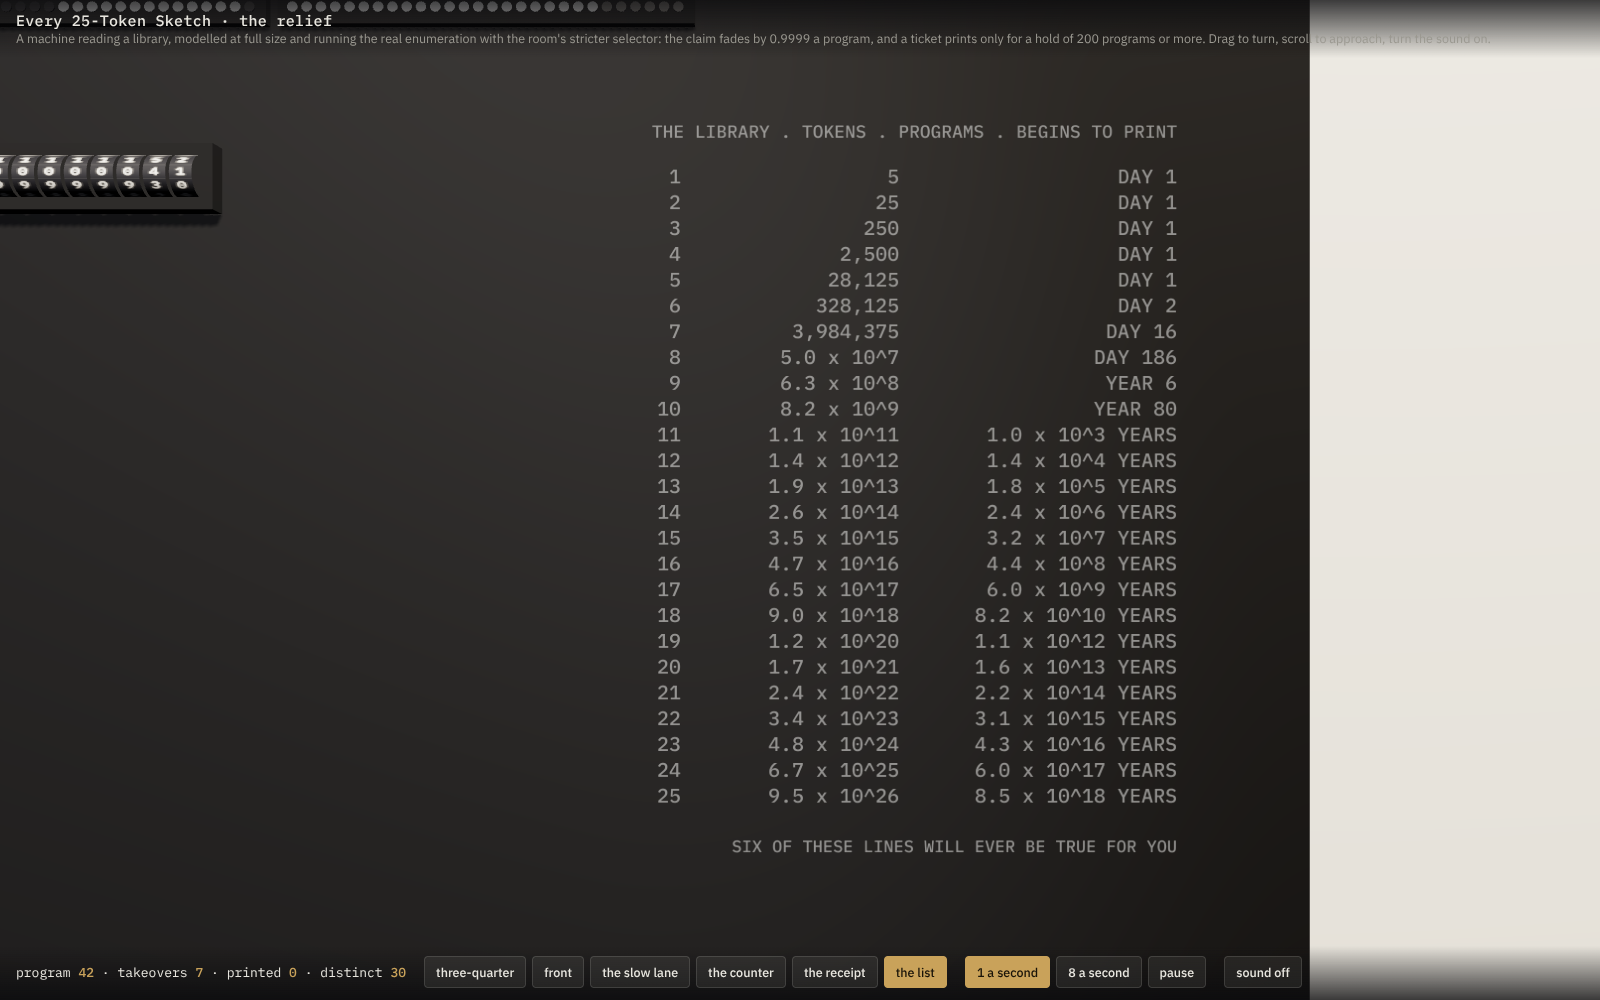
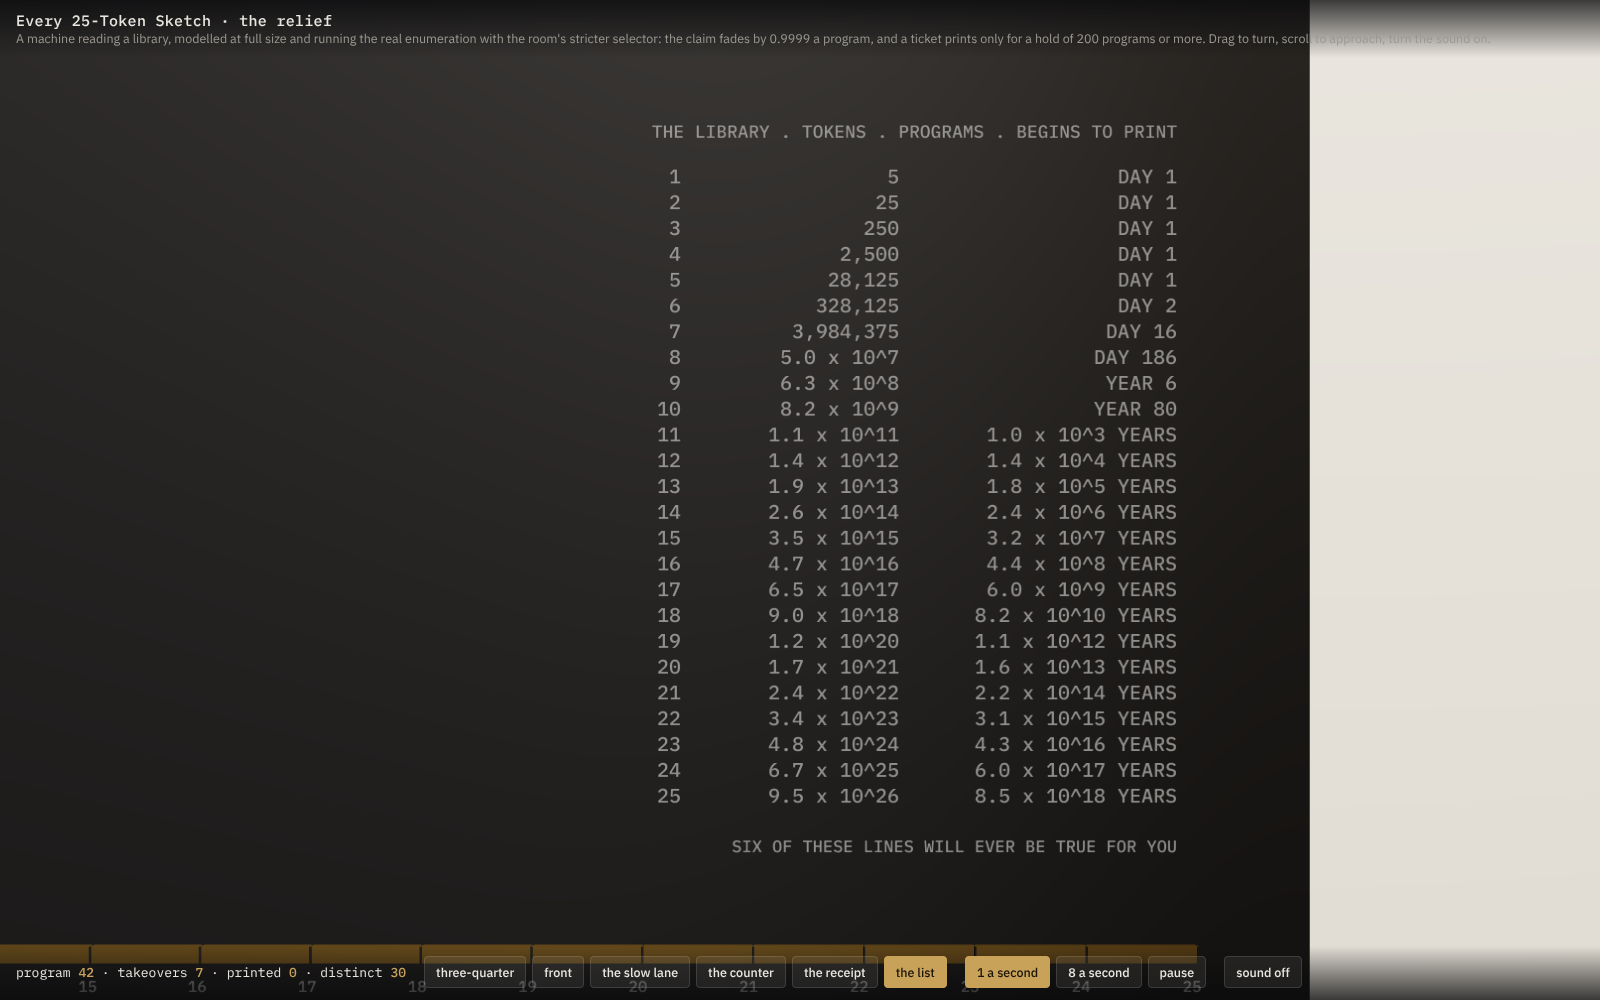
045: the engraved list sits just above the ruler
Claude-Session: https://claude.ai/code/session_01FhnofTHF49yv2QouZWRnps

diff --git a/projects/045-every-25-token-sketch/relief/model.html b/projects/045-every-25-token-sketch/relief/model.html
@@ -530,7 +530,7 @@ const controls = new OrbitControls(camera, canvas); controls.enableDamping = tru
 // world space: the panel face spans x −1 … 1, y 0.9 … 2.4; the lane centre is (−0.64, 1.70), the counter (0, 1.925), the shelves (1.4, 0.75)
 const VIEWS = [
   { p: [2.9, 1.9, 4.2], t: [0.55, 1.45, 0] }, { p: [0.5, 1.65, 4.6], t: [0.5, 1.55, 0] },
-  { p: [-0.5, 1.78, 1.25], t: [-0.64, 1.70, 0.08] }, { p: [0.12, 1.98, 0.78], t: [0.0, 1.92, 0.08] }, { p: [-0.22, 2.06, 0.42], t: [-0.22, 1.79, 0.12] }, { p: [0.64, 1.70, 1.0], t: [0.64, 1.70, 0.08] },
+  { p: [-0.5, 1.78, 1.25], t: [-0.64, 1.70, 0.08] }, { p: [0.12, 1.98, 0.78], t: [0.0, 1.92, 0.08] }, { p: [-0.22, 2.06, 0.42], t: [-0.22, 1.79, 0.12] }, { p: [0.64, 1.34, 1.0], t: [0.64, 1.34, 0.08] },
 ];
 let viewFrom = null, viewTo = null, viewT = 1;
 function goView(i) { viewFrom = { p: camera.position.clone(), t: controls.target.clone() }; viewTo = { p: new THREE.Vector3(...VIEWS[i].p), t: new THREE.Vector3(...VIEWS[i].t) }; viewT = 0; for (let j = 0; j < 6; j++) document.getElementById('v' + j).setAttribute('aria-pressed', String(j === i)); }
@@ -679,7 +679,7 @@ function animateTickets(now) {                                       // hang fro
   g.font = '500 34px "IBM Plex Mono", ui-monospace, Menlo, monospace'; g.fillText('SIX OF THESE LINES WILL EVER BE TRUE FOR YOU', 1560, 1500);
   const tex = new THREE.CanvasTexture(c); tex.colorSpace = THREE.SRGBColorSpace; tex.anisotropy = 8;
   const listMesh = new THREE.Mesh(new THREE.PlaneGeometry(0.56, 0.56), new THREE.MeshBasicMaterial({ map: tex, transparent: true, depthWrite: false }));
-  const pp = mm(1360 + 280, 420 + 280, 0.0012); listMesh.position.set(pp.x, pp.y, pp.z); scene.add(listMesh);
+  const pp = mm(1360 + 280, 780 + 280, 0.0012); listMesh.position.set(pp.x, pp.y, pp.z); scene.add(listMesh);   // the block's foot 34 mm above the ruler
 }
 // the ruler: brass, engraved, a pointer on a lead screw
 box(80, 1374, 1840, 12, 0.006, brass, 0.001);

diff --git a/projects/045-every-25-token-sketch/relief/simulator.html b/projects/045-every-25-token-sketch/relief/simulator.html
@@ -109,7 +109,7 @@
     ctx.fillStyle = '#2a2a30'; ctx.fillRect(sx - 10, sy + 38, 140, 6);                      // the shelf under the slot, seen edge-on
     if (found.length) { ctx.fillStyle = 'rgba(232,230,223,0.9)'; ctx.fillRect(sx + 8, sy + 34, 104, 4); }
     // the plate: the library's 25 lengths, their counts, when each begins to print
-    const px0 = 1360, py0 = 420, pw = 560, ph = 560;                    // the list, engraved in the face, aligned right in the lower right field
+    const px0 = 1360, py0 = 780, pw = 560, ph = 560;                    // the list, engraved in the face, aligned right in the lower right field
     engrave('THE LIBRARY . TOKENS . PROGRAMS . BEGINS TO PRINT', px0 + pw, py0 + 24, 13, 'right');
     PLATE.forEach(([n, c, b], i) => { const y = py0 + 56 + i * 18.4; engrave(String(n), px0 + 200, y, 14, 'right'); engrave(c, px0 + 350, y, 14, 'right'); engrave(b, px0 + pw, y, 14, 'right'); });
     engrave('SIX OF THESE LINES WILL EVER BE TRUE FOR YOU', px0 + pw, py0 + ph - 24, 13, 'right');

diff --git a/tools/relief-elevation.py b/tools/relief-elevation.py
@@ -31,11 +31,11 @@ T(712,528,'THE PROGRAM . 28 DIGIT WHEELS, 18 MM (ANNOTATION)',s=11); dim(712,442
 rect(720,560,120,14,'#1b1b20'); T(860,571,'THE RECEIPT . 58 MM SLOT (ANNOTATION)',s=11)
 o.append('<rect x="710" y="612" width="140" height="4" fill="#2a2a30"/>'); T(860,620,'THE SHELF . 140 x 100 MM, SEEN EDGE-ON (ANNOTATION)',s=11); dim(710,640,850,640,'140')
 # the list, engraved in the face, aligned right
-T(1920,444,'THE LIBRARY . TOKENS . PROGRAMS . BEGINS TO PRINT','end',13)
+T(1920,804,'THE LIBRARY . TOKENS . PROGRAMS . BEGINS TO PRINT','end',13)
 for i,(n,c,b) in enumerate(rows):
-    yy=round(420+66+i*18.2,1); T(1560,yy,str(n),'end'); T(1710,yy,c,'end'); T(1920,yy,b,'end')
-T(1920,956,'SIX OF THESE LINES WILL EVER BE TRUE FOR YOU','end',13)
-T(1920,1010,'ENGRAVED IN THE FACE, 1 MM DEEP, FILLED WHITE (ANNOTATION)','end',11,'#555')
+    yy=round(780+66+i*18.2,1); T(1560,yy,str(n),'end'); T(1710,yy,c,'end'); T(1920,yy,b,'end')
+T(1920,1316,'SIX OF THESE LINES WILL EVER BE TRUE FOR YOU','end',13)
+T(1920,760,'ENGRAVED IN THE FACE, 1 MM DEEP, FILLED WHITE (ANNOTATION)','end',11,'#555')
 # the ruler along the foot
 o.append('<rect x="80" y="1374" width="1840" height="12" fill="#8a7340"/>')
 total=math.log10(CUM[25])
